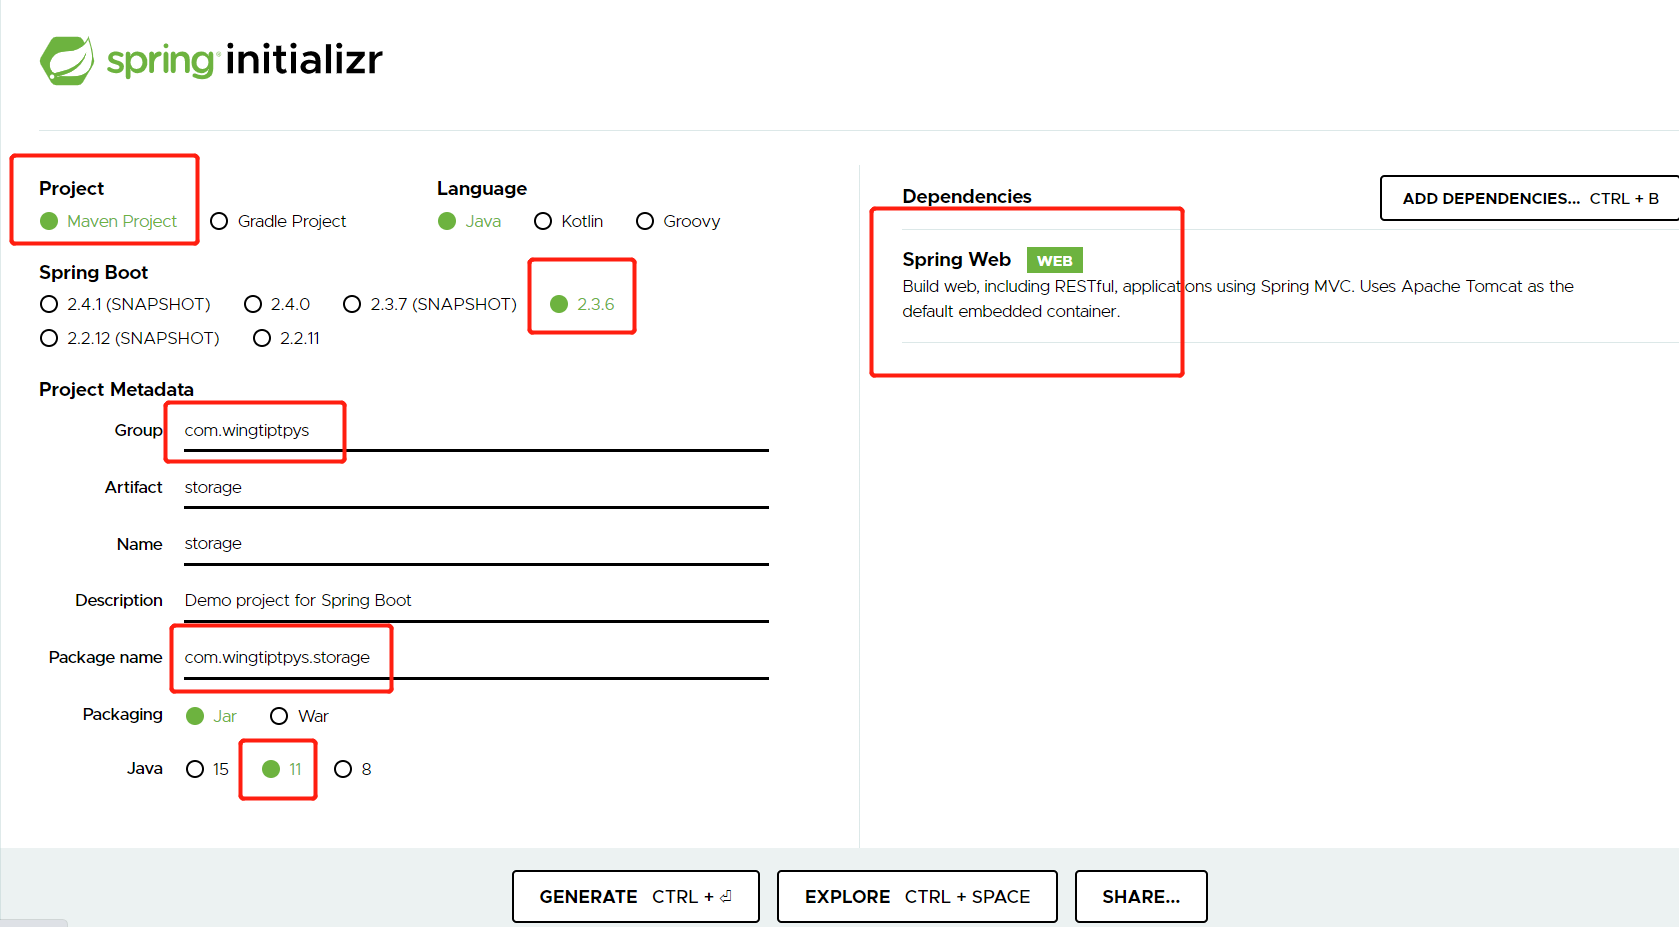
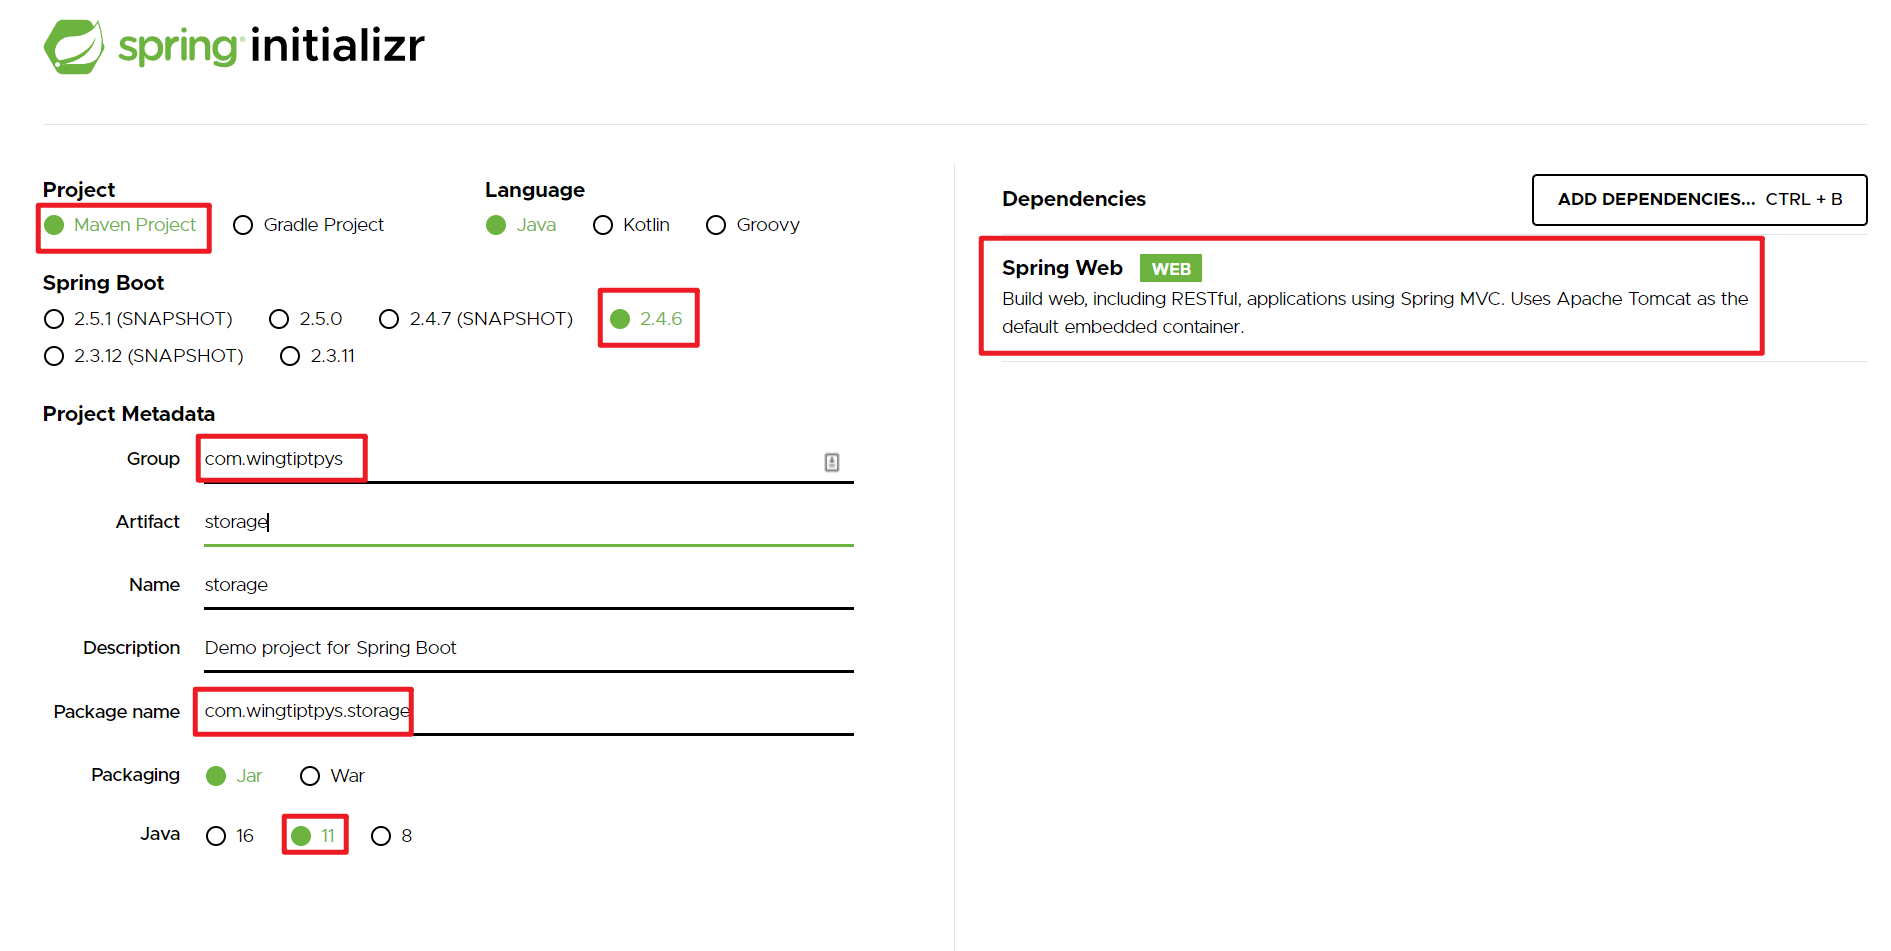
fix doc-bug about cosmos and storage (#1860)
* - fix doc bugs about cosmos and storage

* edits, fixed placeholders, removed extra spaces

* fixed formatting

* added image border

diff --git a/articles/java/spring-framework/configure-spring-boot-starter-java-app-with-azure-storage.md b/articles/java/spring-framework/configure-spring-boot-starter-java-app-with-azure-storage.md
@@ -26,7 +26,6 @@ The following prerequisites are required in order to follow the steps in this ar
 > [!IMPORTANT]
 >
 > Spring Boot version 2.0 or greater is required to complete the steps in this article.
->
 
 ## Create an Azure Storage Account and blob container for your application
 
@@ -44,7 +43,7 @@ The following procedure creates an Azure storage account and container in the po
    * Select **Resource group**, or create a new resource group.
    * Enter a unique **Storage account name**, which will become part of the URI for your storage account. For example: if you entered **wingtiptoysstorage** for the **Name**, the URI would be *wingtiptoysstorage.core.windows.net*.
    * Specify the **Location** for your storage account.
-1. When you have specified the options listed above, select **Review + create**. 
+1. When you have specified the options listed above, select **Review + create**.
 1. Review the specification, then select **Create** to create your storage account.
 1. When the deployment is complete, select **Go to resource**.
 1. Select **Containers**.
@@ -59,37 +58,39 @@ The following procedure creates an Azure storage account and container in the po
 You can also use Azure CLI to create an Azure storage account and container using the following steps. Remember to replace the placeholder values (in angle brackets) with your own values.
 
 1. Open a command prompt.
+
 1. Sign in to your Azure account:
 
    ```azurecli
    az login
    ```
-   
+
 1. If you don't have a resource group, create one using the following command:
-   
+
    ```azurecli
    az group create \
       --name <resource-group> \
       --location <location>
    ```
-   
+
 1. Create a storage account by using the following command:
-  
+
    ```azurecli
     az storage account create \
-      --name <storage-account> \
+      --name <storage-account-name> \
       --resource-group <resource-group> \
-      --location <location> 
+      --location <location>
    ```
 
 1. To create a container, use the following command:
-   
+
    ```azurecli
     az storage container create \
       --account-name <storage-account-name> \
       --name <container-name> \
       --auth-mode login
    ```
+
 ## Create a simple Spring Boot application with the Spring Initializr
 
 The following procedure creates the Spring boot application.
@@ -100,11 +101,12 @@ The following procedure creates the Spring boot application.
 
    * Generate a **Maven** project.
    * Specify **Java 11**.
-   * Specify a **Spring Boot** version that is equal to or greater than 2.3.
+   * Specify a **Spring Boot** version that is equal to or greater than 2.4.6.
    * Specify the **Group** and **Artifact** names for your application.
    * Add the **Spring Web** dependency.
 
-      ![Basic Spring Initializr options][SI01]
+      >[!div class="mx-imgBorder"]
+      >![Basic Spring Initializr options][SI01]
 
    > [!NOTE]
    > The Spring Initializr uses the **Group** and **Artifact** names to create the package name; for example: *com.wingtiptoys.storage*.
@@ -131,106 +133,13 @@ The following procedure configures the Spring boot application to use Azure stor
 
    ```xml
    <dependency>
-      <groupId>com.microsoft.azure</groupId>
-      <artifactId>spring-starter-azure-storage</artifactId>
-      <version>1.2.8</version>
-   </dependency>
-   ```
-
-1. If you're using JDK version 9 or greater, add the following dependencies:
-
-   ```xml
-   <dependency>
-       <groupId>javax.xml.bind</groupId>
-       <artifactId>jaxb-api</artifactId>
-       <version>2.3.1</version>
-   </dependency>
-   <dependency>
-       <groupId>org.glassfish.jaxb</groupId>
-       <artifactId>jaxb-runtime</artifactId>
-       <version>2.3.1</version>
-       <scope>runtime</scope>
+      <groupId>com.azure.spring</groupId>
+      <artifactId>azure-spring-boot-starter-storage</artifactId>
+      <version>3.4.0</version>
    </dependency>
    ```
 
 1. Save and close the *pom.xml* file.
-
-## Create an Azure Credential File
-
-The following procedure creates the Azure credential file.
-
-1. Open a command prompt.
-
-1. Navigate to the *resources* directory of your Spring Boot app; for example:
-
-   ```cmd
-   cd C:\SpringBoot\storage\src\main\resources
-   ```
-
-   -or-
-
-   ```bash
-   cd /users/example/home/storage/src/main/resources
-   ```
-
-1. Sign in to your Azure account:
-
-   ```azurecli
-   az login
-   ```
-
-1. List your subscriptions:
-
-   ```azurecli
-   az account list
-   ```
-   Azure will return a list of your subscriptions, and you will need to copy the GUID for the subscription that you want to use; for example:
-
-   ```json
-   [
-     {
-       "cloudName": "AzureCloud",
-       "id": "11111111-1111-1111-1111-111111111111",
-       "isDefault": true,
-       "name": "Converted Windows Azure MSDN - Visual Studio Ultimate",
-       "state": "Enabled",
-       "tenantId": "22222222-2222-2222-2222-222222222222",
-       "user": {
-         "name": "gena.soto@wingtiptoys.com",
-         "type": "user"
-       }
-     }
-   ]
-   ```
-
-1. Specify the GUID for the subscription you want to use with Azure; for example:
-
-   ```azurecli
-   az account set -s 11111111-1111-1111-1111-111111111111
-   ```
-
-1. Create your Azure Credential file:
-
-   ```azurecli
-   az ad sp create-for-rbac --sdk-auth > my.azureauth
-   ```
-
-   This command will create a *my.azureauth* file in your *resources* directory with contents that resemble the following example:
-
-   ```json
-   {
-     "clientId": "33333333-3333-3333-3333-333333333333",
-     "clientSecret": "44444444-4444-4444-4444-444444444444",
-     "subscriptionId": "11111111-1111-1111-1111-111111111111",
-     "tenantId": "22222222-2222-2222-2222-222222222222",
-     "activeDirectoryEndpointUrl": "https://login.microsoftonline.com",
-     "resourceManagerEndpointUrl": "https://management.azure.com/",
-     "activeDirectoryGraphResourceId": "https://graph.windows.net/",
-     "sqlManagementEndpointUrl": "https://management.core.windows.net:8443/",
-     "galleryEndpointUrl": "https://gallery.azure.com/",
-     "managementEndpointUrl": "https://management.core.windows.net/"
-   }
-   ```
 
 ## Configure your Spring Boot app to use your Azure Storage account
 
@@ -247,55 +156,30 @@ The following procedure configures the Spring boot application to use your Azure
 2. Open the *application.properties* file in a text editor, add the following lines, and then replace the sample values with the appropriate properties for your storage account:
 
    ```yaml
-   spring.cloud.azure.credential-file-path=my.azureauth
-   spring.cloud.azure.resource-group=wingtiptoysresources
-   spring.cloud.azure.region=westUS
-   spring.cloud.azure.storage.account=wingtiptoysstorage
-   blob=azure-blob://containerName/blobName
+   # Storage account name length should be between 3 and 24 and use numbers and lower-case letters only
+   azure.storage.account-name=<storage-account-name>
+
+   # Fill storage account access key copied from portal
+   azure.storage.account-key=<storage-account-access-key>
+
+   # Fill storage blob endpoint URL copied from portal
+   azure.storage.blob-endpoint=<storage-endpoint-URL>
    ```
+
    Where:
 
-   |                   Field                   |                                            Description                                            |
-   |-------------------------------------------|---------------------------------------------------------------------------------------------------|
-   | `spring.cloud.azure.credential-file-path` |            Specifies Azure credential file that you created earlier in this tutorial.             |
-   |    `spring.cloud.azure.resource-group`    |           Specifies the Azure Resource Group that contains your Azure Storage account.            |
-   |        `spring.cloud.azure.region`        | Specifies the geographical region that you specified when you created your Azure Storage account. |
-   |   `spring.cloud.azure.storage.account`    |            Specifies Azure Storage account that you created earlier in this tutorial.             |
-   |                   `blob`                  |           Specifies the names of the container and blob where you want to store the data.         |
-    
+   | Name                        | Description                                         | Required                                       |
+   |-----------------------------|-----------------------------------------------------|------------------------------------------------|
+   | azure.storage.accountName   | The name of the Azure Storage account.              | Yes                                            |
+   | azure.storage.accountKey    | The access key of the Azure Storage account.        | Yes                                            |
+   | azure.storage.blob-endpoint | The blob endpoint URL of the Azure Storage account. | Optional when a storage blob resource is used. |
+   | azure.storage.file-endpoint | The file endpoint URL of the Azure Storage account. | Optional when a storage file resource is used. |
+
 3. Save and close the *application.properties* file.
 
 ## Add sample code to implement basic Azure storage functionality
 
 In this section, you create the necessary Java classes for storing a blob in your Azure storage account.
-
-### Modify the main application class
-
-1. Locate the main application Java file in the package directory of your app; for example:
-
-   `C:\SpringBoot\storage\src\main\java\com\wingtiptoys\storage\StorageApplication.java`
-
-   -or-
-
-   `/users/example/home/storage/src/main/java/com/wingtiptoys/storage/StorageApplication.java`
-
-1. Open the main application Java file in a text editor, and add the following lines to the file. Replace wingtiptoys with your values:
-
-   ```java
-   package com.wingtiptoys.storage;
-
-   import org.springframework.boot.SpringApplication;
-   import org.springframework.boot.autoconfigure.SpringBootApplication;
-
-   @SpringBootApplication
-   public class StorageApplication {
-      public static void main(String[] args) {
-         SpringApplication.run(StorageApplication.class, args);
-      }
-   }
-   ```
-
-1. Save and close the main application Java file.
 
 ### Add a blob controller class
 
@@ -307,10 +191,10 @@ In this section, you create the necessary Java classes for storing a blob in you
 
    `/users/example/home/storage/src/main/java/com/wingtiptoys/storage/BlobController.java`
 
-1. Open the blob controller Java file in a text editor, and add the following lines to the file.  Change *wingtiptoys* to your resource group and *storage* to your artifact name.
+1. Open the blob controller Java file in a text editor, and add the following lines to the file. Replace the *`<your-resource-group>`*, *`<your-artifact-name>`*, *`<your-container-name>`*, and *`<your-blob-name>`* placeholders with your values.
 
    ```java
-   package com.wingtiptoys.storage;
+   package com.<your-resource-group>.<your-artifact-name>;
 
    import org.springframework.beans.factory.annotation.Value;
    import org.springframework.core.io.Resource;
@@ -325,18 +209,18 @@ In this section, you create the necessary Java classes for storing a blob in you
    @RestController
    @RequestMapping("blob")
    public class BlobController {
-   
-       @Value("${blob}")
+
+       @Value("azure-blob://<your-container-name>/<your-blob-name>")
        private Resource blobFile;
-   
-       @GetMapping
+
+       @GetMapping("/readBlobFile")
        public String readBlobFile() throws IOException {
            return StreamUtils.copyToString(
                    this.blobFile.getInputStream(),
                    Charset.defaultCharset());
        }
-   
-       @PostMapping
+
+       @PostMapping("/writeBlobFile")
        public String writeBlobFile(@RequestBody String data) throws IOException {
            try (OutputStream os = ((WritableResource) this.blobFile).getOutputStream()) {
                os.write(data.getBytes());
@@ -355,7 +239,7 @@ In this section, you create the necessary Java classes for storing a blob in you
    ```
 
    -or-
-   
+
    ```bash
    cd /users/example/home/storage
    ```
@@ -372,23 +256,22 @@ In this section, you create the necessary Java classes for storing a blob in you
    a. Send a POST request to update a file's contents:
 
       ```shell
-      curl -d 'new message' -H 'Content-Type: text/plain' localhost:8080/blob
+      curl -d 'new message' -H 'Content-Type: text/plain' localhost:8080/blob/writeBlobFile
       ```
 
-      You should see a response that the file was updated.
+      You should see a response that  `file was updated`.
 
    b. Send a GET request to verify the file's contents:
 
       ```shell
-      curl -X GET http://localhost:8080/
+      curl -X GET http://localhost:8080/blob/readBlobFile
       ```
 
-     You should see the "Hello World" text that you posted.
+     You should see the "new message" text that you posted.
 
 ## Summary
 
 In this tutorial, you created a new Java application using the **[Spring Initializr]**, added the Azure storage starter to your application, and then configured your application to upload a blob to your Azure storage account.
-
 
 ## Clean up resources
 
@@ -406,6 +289,7 @@ To learn more about Spring and Azure, continue to the Spring on Azure documentat
 For more information about the additional Spring Boot Starters that are available for Microsoft Azure, see [Spring Boot Starters for Azure](spring-boot-starters-for-azure.md).
 
 For detailed information about additional Azure storage APIs that you can call from your Spring Boot applications, see the following articles:
+
 * [How to use Azure Blob storage from Java](/azure/storage/blobs/storage-java-how-to-use-blob-storage)
 * [How to use Azure Queue storage from Java](/azure/storage/queues/storage-java-how-to-use-queue-storage)
 * [How to use Azure Table storage from Java](/azure/cosmos-db/table-storage-how-to-use-java)

diff --git a/articles/java/spring-framework/how-to-guides-spring-data-cosmosdb.md b/articles/java/spring-framework/how-to-guides-spring-data-cosmosdb.md
@@ -240,6 +240,7 @@ public class AppConfiguration extends AbstractCosmosConfiguration {
     }
 
     @Bean
+    @Override
     public CosmosConfig cosmosConfig() {
         DirectConnectionConfig directConnectionConfig = DirectConnectionConfig.getDefaultConfig();        
         return CosmosConfig.builder()
@@ -320,6 +321,7 @@ You can also customize the configuration to change the connection mode, maximum 
 
 ```java
     @Bean
+    @Override
     public CosmosConfig cosmosConfig() {
 
         // Set the connection mode to Direct (TCP), which applies to data plane operations.

diff --git a/articles/java/spring-framework/configure-spring-boot-starter-java-app-with-cosmos-db.md b/articles/java/spring-framework/configure-spring-boot-starter-java-app-with-cosmos-db.md
@@ -93,7 +93,7 @@ Your simple Spring Boot application is now ready for editing.
     <dependency>
         <groupId>com.azure.spring</groupId>
         <artifactId>azure-spring-boot-starter-cosmos</artifactId>
-        <version>3.0.0</version>
+        <version>3.4.0</version> 
     </dependency>
     ```
 
@@ -102,7 +102,7 @@ Your simple Spring Boot application is now ready for editing.
     ```xml
     <properties>
         <java.version>11</java.version>
-        <azure.version>3.0.0</azure.version>
+        <azure.version>3.4.0</azure.version>
     </properties>
     ```
 
